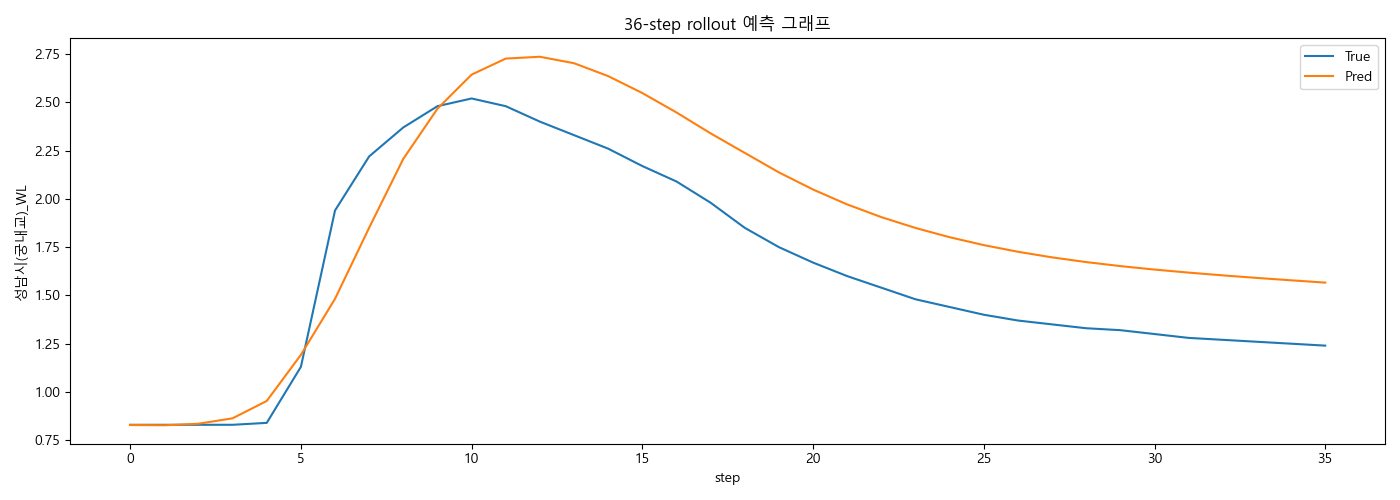
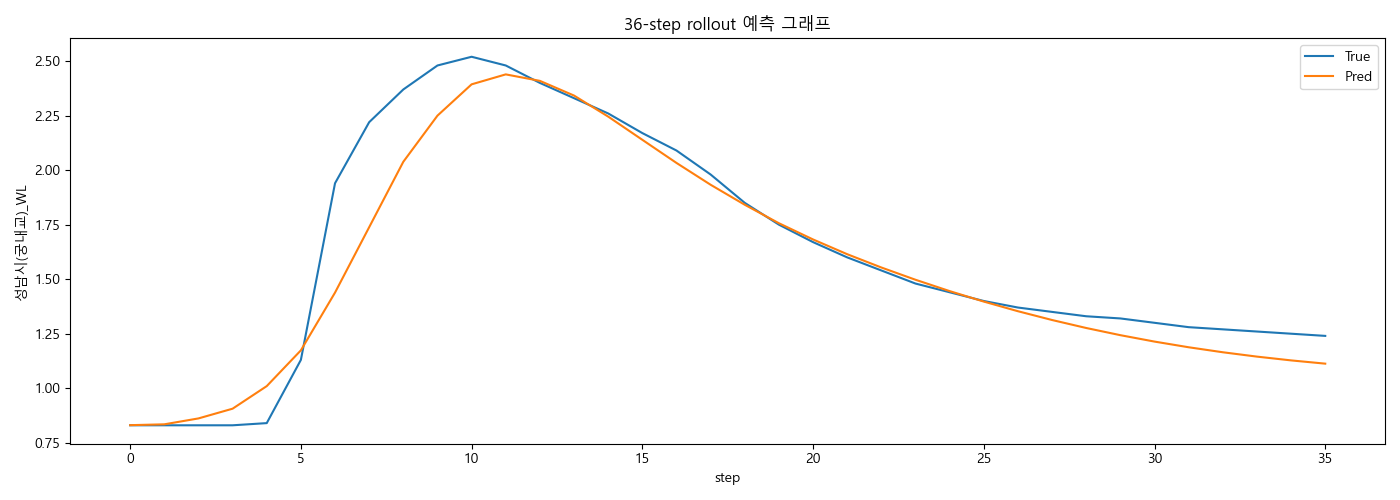
huber , 큰 수위 구간에 가중치 두는 방법 추가

diff --git a/main_shuffle.py b/main_shuffle.py
@@ -168,6 +168,15 @@ def build_xy(events, feature_cols, target_col, scaler_x, scaler_y, seq_length):
 #     model.compile(loss='mean_squared_error', optimizer='adam')
 
 
+#큰 수위 구간에 가중치
+@tf.function
+def weighted_mse(y_true, y_pred):
+    # y_true, y_pred: (batch, 1), 
+    # 예: y_true가 0.7 이상(상대적으로 높은 수위)이면 가중치 3배
+    w = tf.where(y_true >= 0.7, 3.0, 1.0)
+    return tf.reduce_mean(w * tf.square(y_true - y_pred))
+
+
 #  모델 구축 Dense(1) + learning_rate, dropout
 def make_lstm_model(seq_length, n_features, learning_rate, dropout, hidden_units=64):
 
@@ -178,7 +187,17 @@ def make_lstm_model(seq_length, n_features, learning_rate, dropout, hidden_units
     # learning rate 조절 + gradient 폭주 방지 (rollout에서 특히 도움)
     opt = tf.keras.optimizers.Adam(learning_rate=learning_rate, clipnorm=1.0)
 
-    model.compile(loss="mean_squared_error", optimizer=opt)
+    # ✅ 기본 loss
+    # model.compile(loss="mean_squared_error", optimizer=opt)
+
+    # ✅ Huber (delta는 스케일에 따라 조절)
+    # loss_fn = tf.keras.losses.Huber(delta=0.01)  # (y가 0~1 스케일이면 0.01~0.1도 실험)
+
+    # model.compile(loss=loss_fn, optimizer=opt)
+
+    # ✅ 큰 수위 구간에 가중치
+    model.compile(loss=weighted_mse, optimizer=opt)
+
 
     return model
 
@@ -297,7 +316,7 @@ if __name__ == "__main__":
 
     # ---------- 변수 설정 -----------------------------------------------------------------------------------
     seq_length = 36
-    learning_rate = 3e-4
+    learning_rate = 3e-4  # 3e-4 = 0.0003 , 1e-4 = 0.0001
     dropout = 0.0
     target = "gn" #dg
     #---------------------------------------------------------------------------------------------------------
